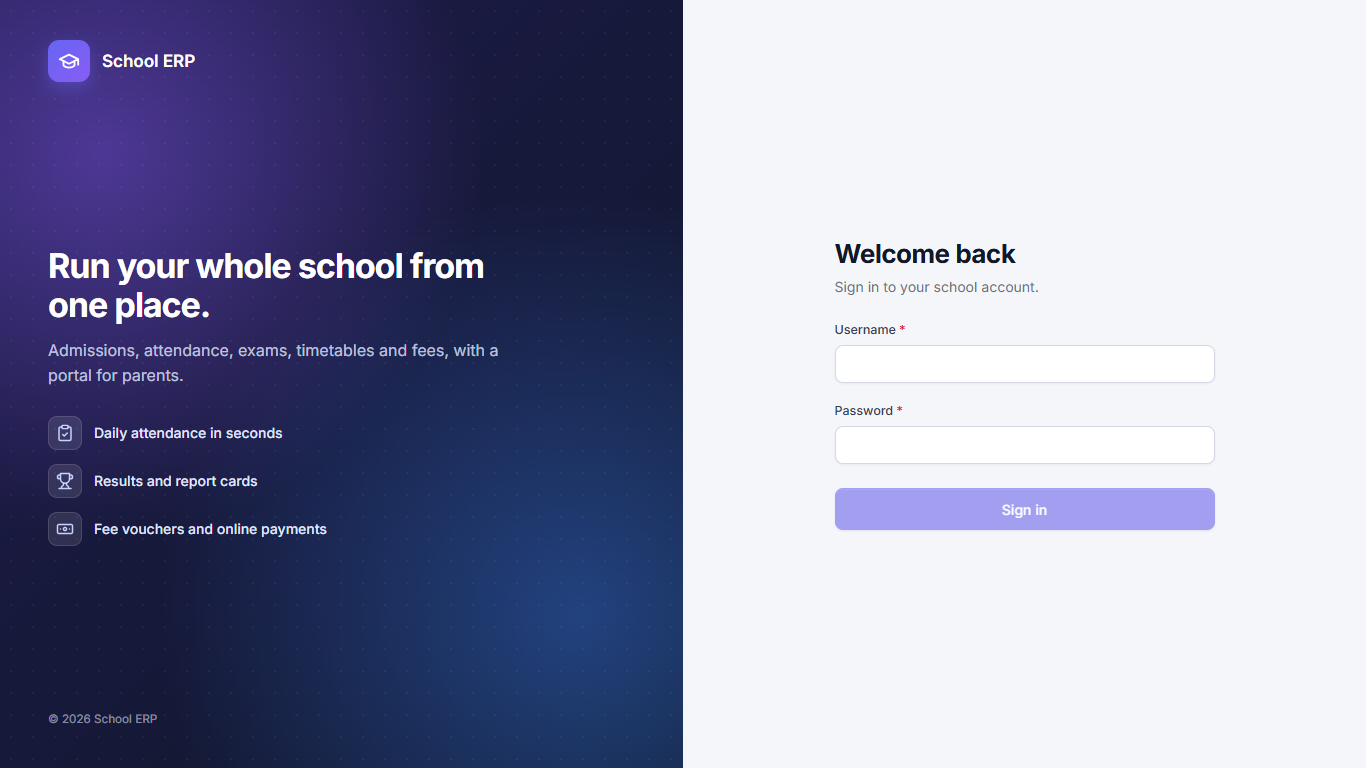
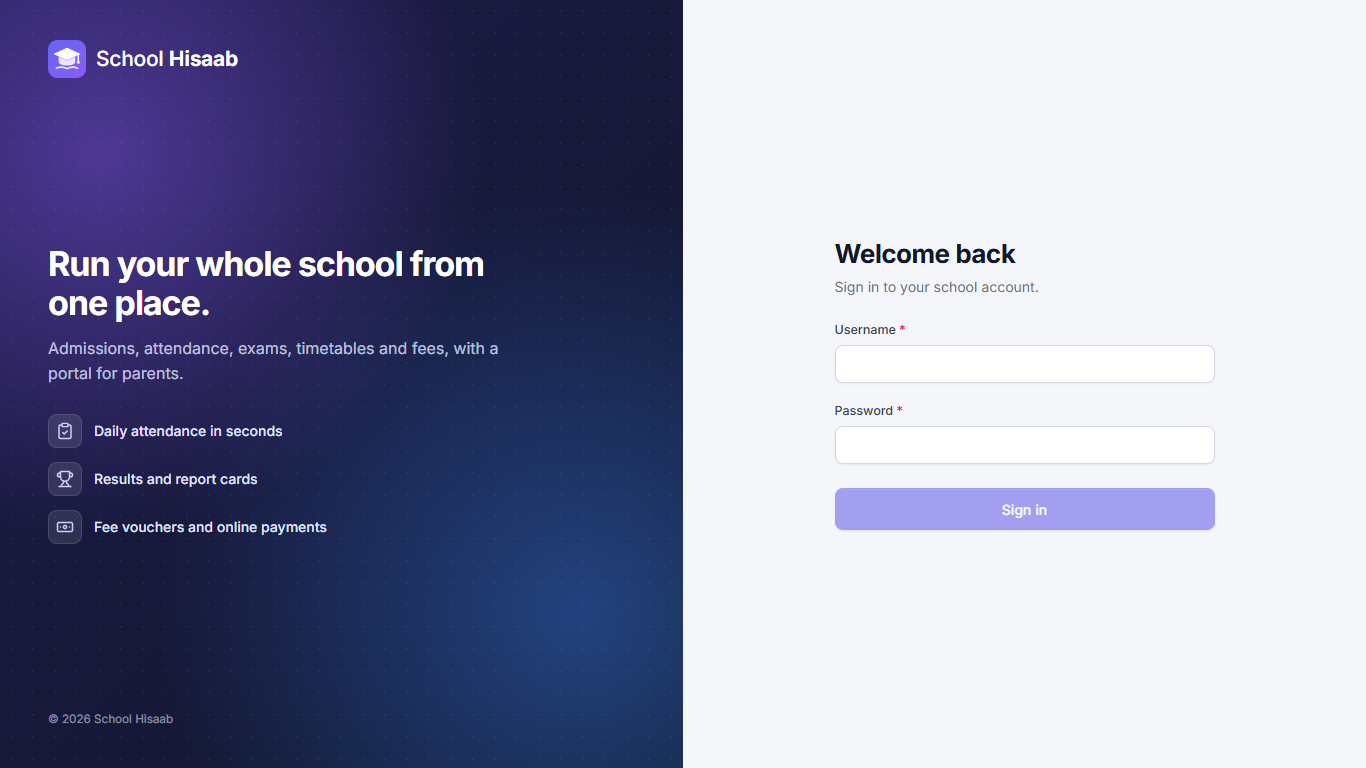
Guide: screenshots retaken with the School Hisaab name; website contact image

diff --git a/guide.html b/guide.html
@@ -173,7 +173,7 @@ portal for parents. You open it in a browser (Chrome or Edge) on a computer or a
 <p>Many schools can use the same app. Each school sees only its own data. An owner with several branches can join them
 in a School Group and see all branches with one login.</p>
 </div>
-    <div class="facts"><div><b>12</b>chapters</div><div><b>77</b>topics</div><div><b>81</b>screenshots</div></div>
+    <div class="facts"><div><b>12</b>chapters</div><div><b>77</b>topics</div><div><b>82</b>screenshots</div></div>
     <a class="btn" href="#contents">Start reading ↓</a>
   </section>
 
@@ -1446,6 +1446,7 @@ the app click <strong>Sign in</strong>.</p>
 <li><strong>Contact and links</strong>: the contact person and their role (like &quot;Sales and support&quot;), phone, WhatsApp number, the sales email
 (<a href="mailto:sales@schoolhisaab.com">sales@schoolhisaab.com</a>) and the support email for schools already using it (<a href="mailto:support@schoolhisaab.com">support@schoolhisaab.com</a>), the address, the user guide link and the note at the foot of the page.</li>
 </ul>
+<p><figure><img src="images/website-contact.png" alt="Contact part of the website: phone, WhatsApp, sales and support emails" loading="lazy"><figcaption>Contact part of the website: phone, WhatsApp, sales and support emails</figcaption></figure></p>
 <p>In the lists (highlights, cards, steps, questions), <strong>Add highlight</strong> / <strong>Add card</strong> / <strong>Add step</strong> / <strong>Add question</strong> makes a new one, the arrows move one up or down and ✕
 removes it. A list left empty is hidden on the website, and so are the questions when there are none. Click
 <strong>Save website</strong>: the change shows at once. <strong>Open the website</strong> shows it.</p>

diff --git a/12-platform-owner.md b/12-platform-owner.md
@@ -29,6 +29,8 @@ the app click **Sign in**.
 - **Contact and links**: the contact person and their role (like "Sales and support"), phone, WhatsApp number, the sales email
   (sales@schoolhisaab.com) and the support email for schools already using it (support@schoolhisaab.com), the address, the user guide link and the note at the foot of the page.
 
+![Contact part of the website: phone, WhatsApp, sales and support emails](images/website-contact.png)
+
 In the lists (highlights, cards, steps, questions), **Add highlight** / **Add card** / **Add step** / **Add question** makes a new one, the arrows move one up or down and ✕
 removes it. A list left empty is hidden on the website, and so are the questions when there are none. Click
 **Save website**: the change shows at once. **Open the website** shows it.
